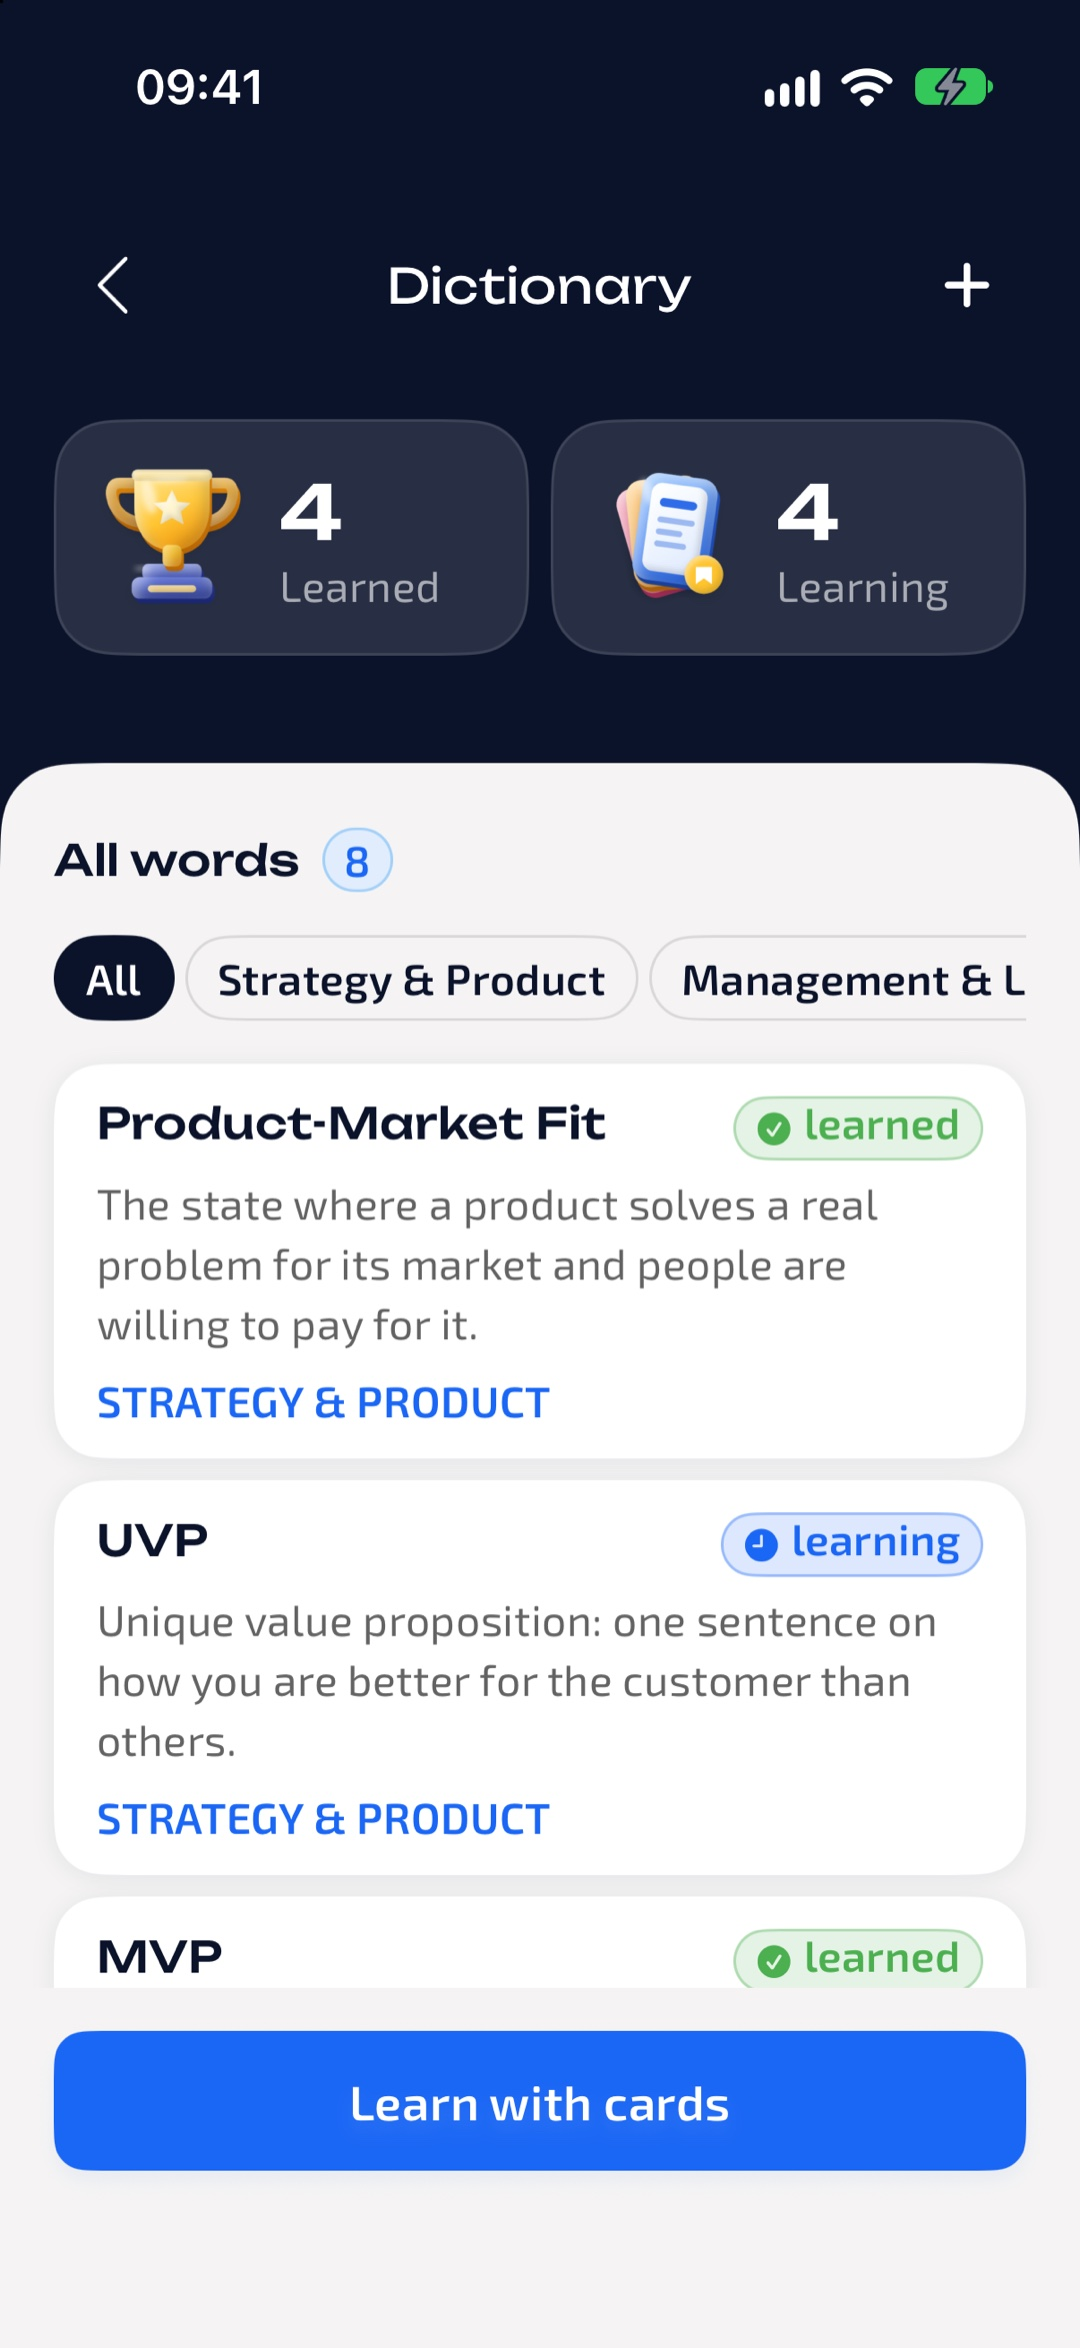
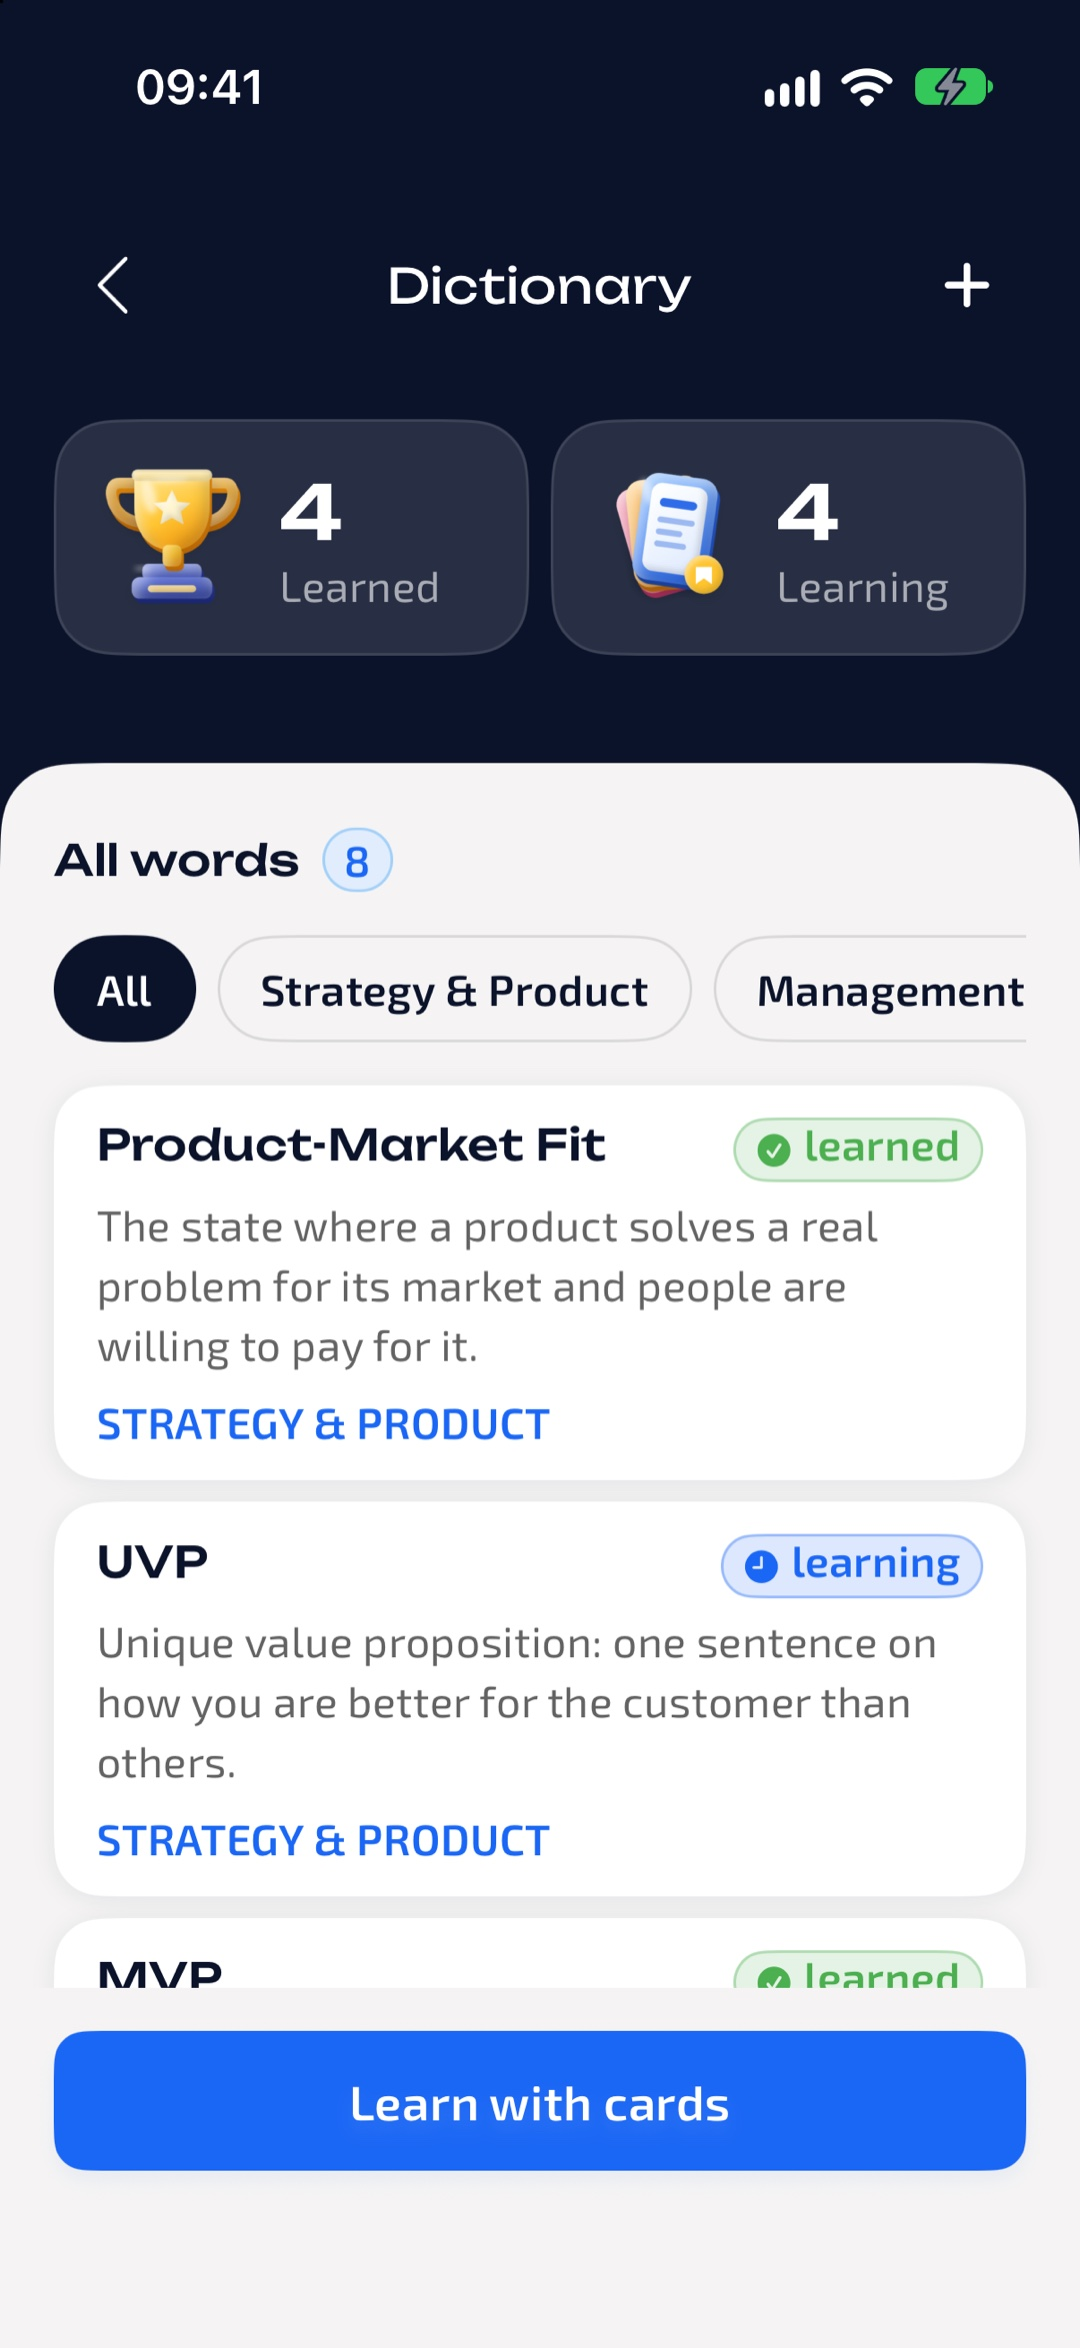
Словник: таби фільтра 40 (uk + en)
Claude-Session: https://claude.ai/code/session_01SnGbK59qBap6rGwT8CguWL

Changed region(s): [[0.0306, 0.4042, 0.9472, 0.8705], [0.6722, 0.8083, 0.9167, 0.8705]]

diff --git a/index.html b/index.html
@@ -204,7 +204,7 @@ function render(){
   board+=`<div class="secgrp"><div class="sechead" id="${sec.id}"><h2>${tt(sec)}</h2><span>${cnt} ${plural(cnt)}</span></div>`;
   flows.forEach(x=>{
    board+=`<section class="flow" id="${x.f.id}"><div class="flowcap"><h3>${tt(x.f)}</h3><span>${x.items.length} ${plural(x.items.length)}</span><button data-cflow="${x.f.id}">${L('cflow')}</button></div><div class="rowwrap"><button class="arrow l" aria-label="Назад">←</button><div class="row">`+
-    x.items.map(s=>`<figure class="shot" data-route="${s.route}"><div class="im"><img src="${DIR()}${s.route}.jpg?v=2609272013" alt="${s.label}" loading="lazy" draggable="false"><i class="pinc"></i></div><figcaption class="cap"><b>${s.label}</b><span>${s.note}</span></figcaption></figure>`).join('')+
+    x.items.map(s=>`<figure class="shot" data-route="${s.route}"><div class="im"><img src="${DIR()}${s.route}.jpg?v=2609272038" alt="${s.label}" loading="lazy" draggable="false"><i class="pinc"></i></div><figcaption class="cap"><b>${s.label}</b><span>${s.note}</span></figcaption></figure>`).join('')+
     `</div><button class="arrow r" aria-label="Далі">→</button></div></section>`;
   });
   board+=`</div>`;
@@ -262,9 +262,9 @@ function vFit(){const W=vs.clientWidth,H=vs.clientHeight;V.fitz=Math.min(W/IW,(H
 function v100(){const W=vs.clientWidth,H=vs.clientHeight;const cx=W/2,cy=H/2;vZoomAt(1/V.z*.5,cx,cy)}
 function vZoomAt(f,cx,cy){const nz=Math.min(3,Math.max(V.fitz*.5,V.z*f));const k=nz/V.z;V.x=cx-(cx-V.x)*k;V.y=cy-(cy-V.y)*k;V.z=nz;vApply()}
 function openViewer(route){const k=all.findIndex(a=>a.route===route);if(k<0)return;V.i=k;$('#viewer').classList.add('on');document.body.style.overflow='hidden';showV();}
-function showV(){const s=all[V.i];vi.src=DIR()+s.route+'.jpg?v=2609272013';
+function showV(){const s=all[V.i];vi.src=DIR()+s.route+'.jpg?v=2609272038';
  $('#vt').innerHTML=`<b>${s.label}</b><span>${tt(s.flow)} · ${s.note}</span><code>${s.route}</code>`;
- const fl=all.filter(a=>a.flow===s.flow);$('#strip').innerHTML=fl.map(a=>`<button data-r="${a.route}" class="${a===s?'on':''}" title="${a.label}"><img src="${DIR()}${a.route}.jpg?v=2609272013" loading="lazy" alt=""></button>`).join('');
+ const fl=all.filter(a=>a.flow===s.flow);$('#strip').innerHTML=fl.map(a=>`<button data-r="${a.route}" class="${a===s?'on':''}" title="${a.label}"><img src="${DIR()}${a.route}.jpg?v=2609272038" loading="lazy" alt=""></button>`).join('');
  $('#strip').querySelectorAll('button').forEach(b=>b.onclick=()=>openViewer(b.dataset.r));
  $('#strip .on')?.scrollIntoView({inline:'center',block:'nearest'});
  vimg.querySelectorAll('.pin,.pop').forEach(n=>n.remove());
